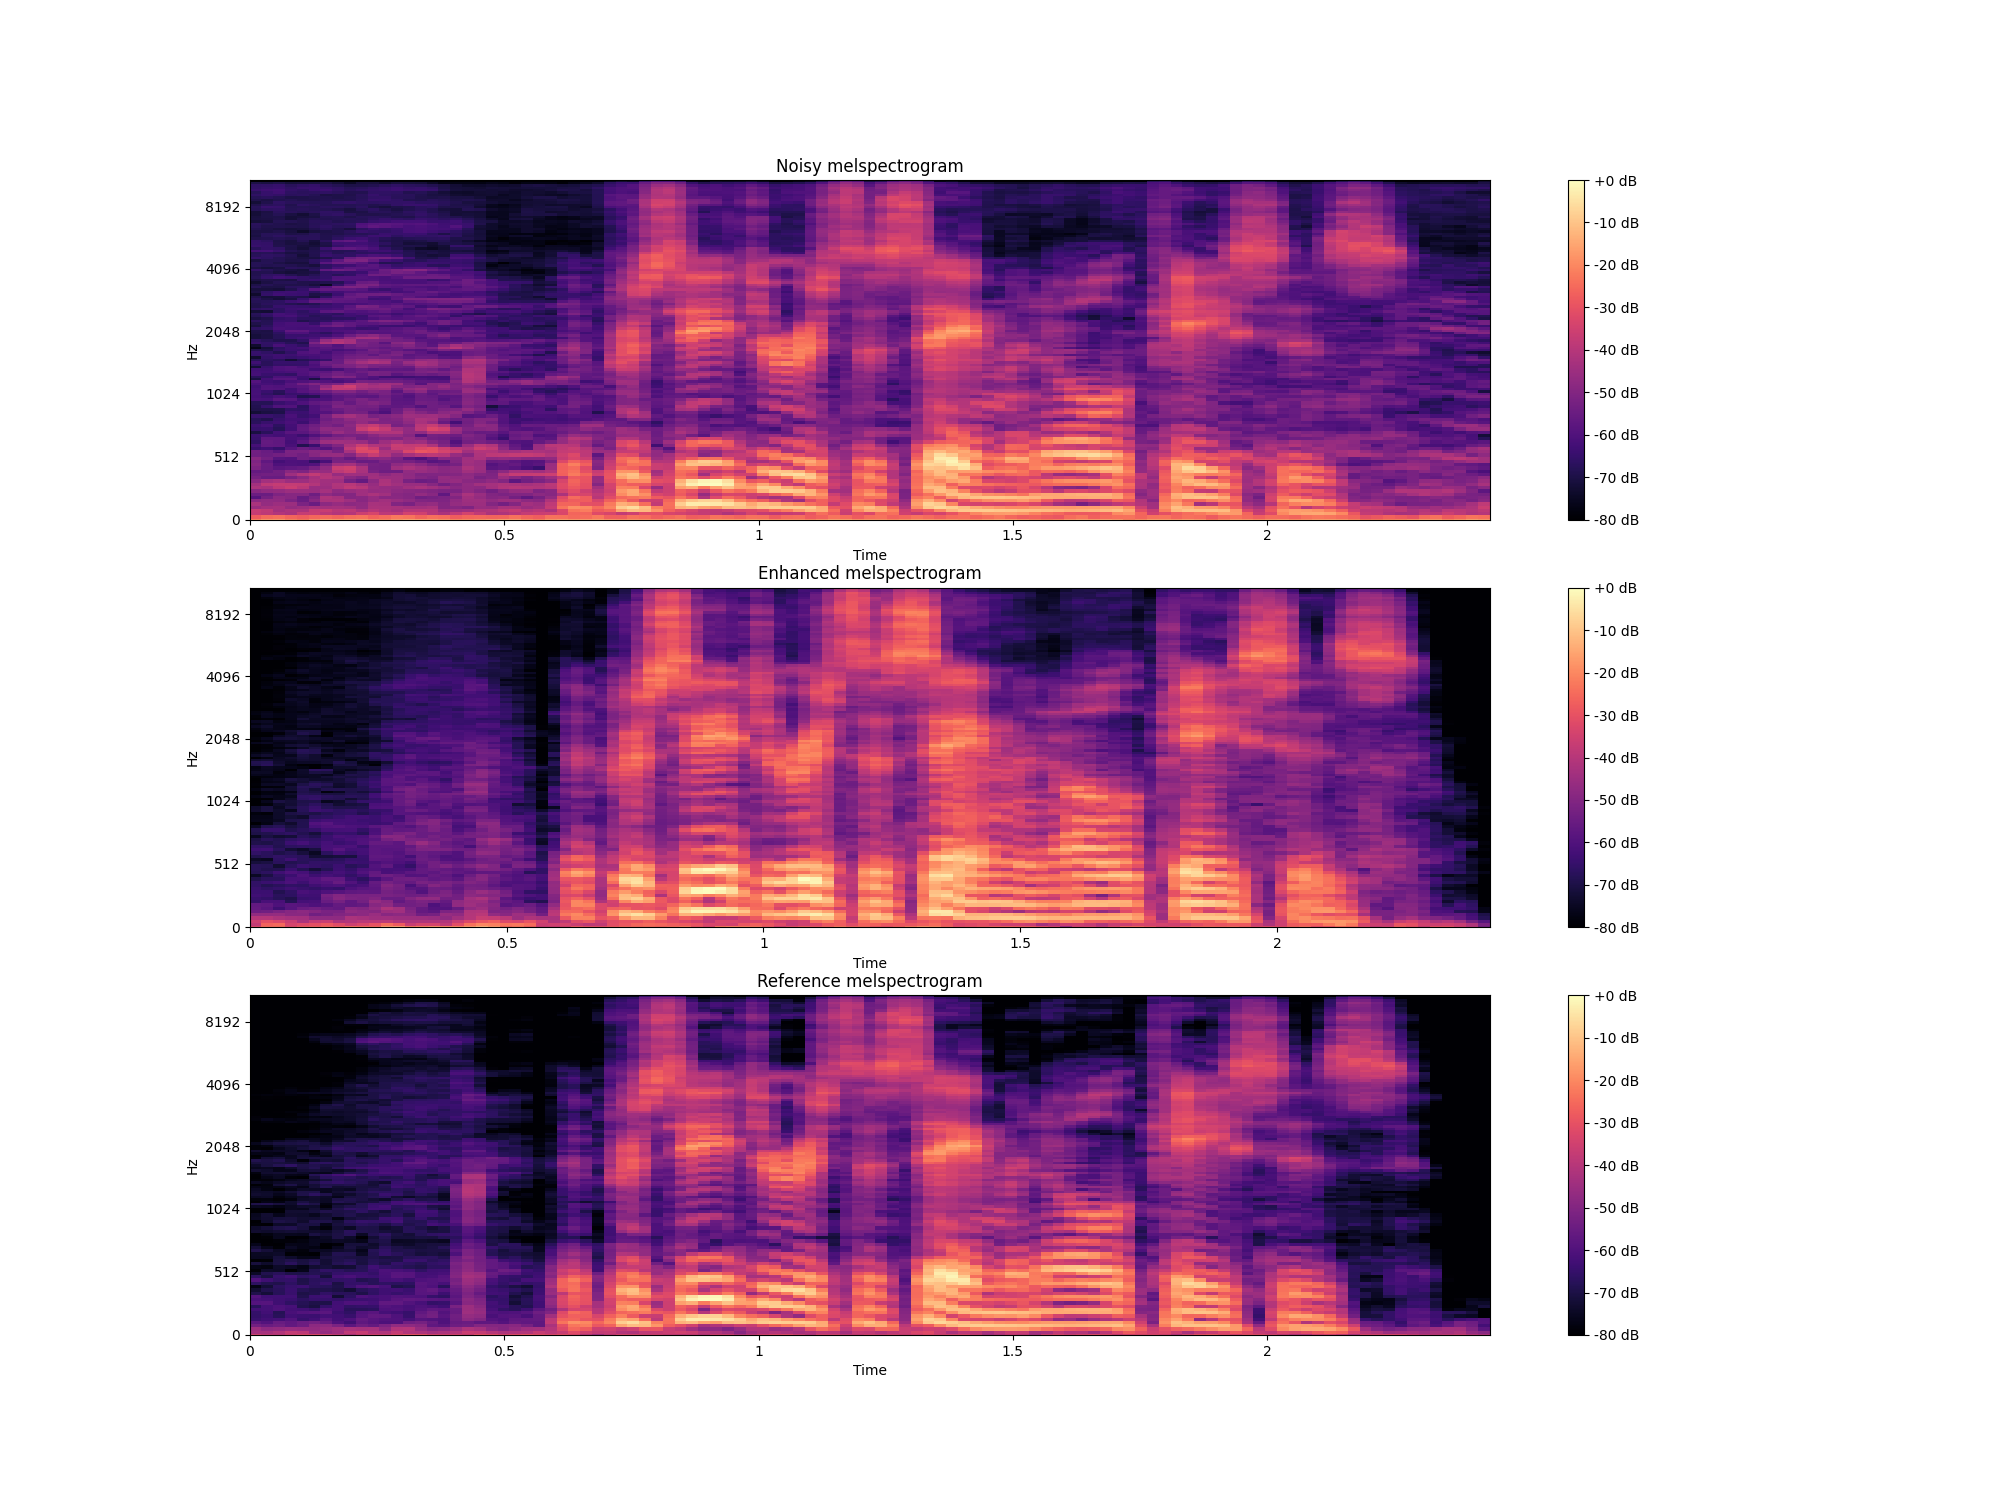
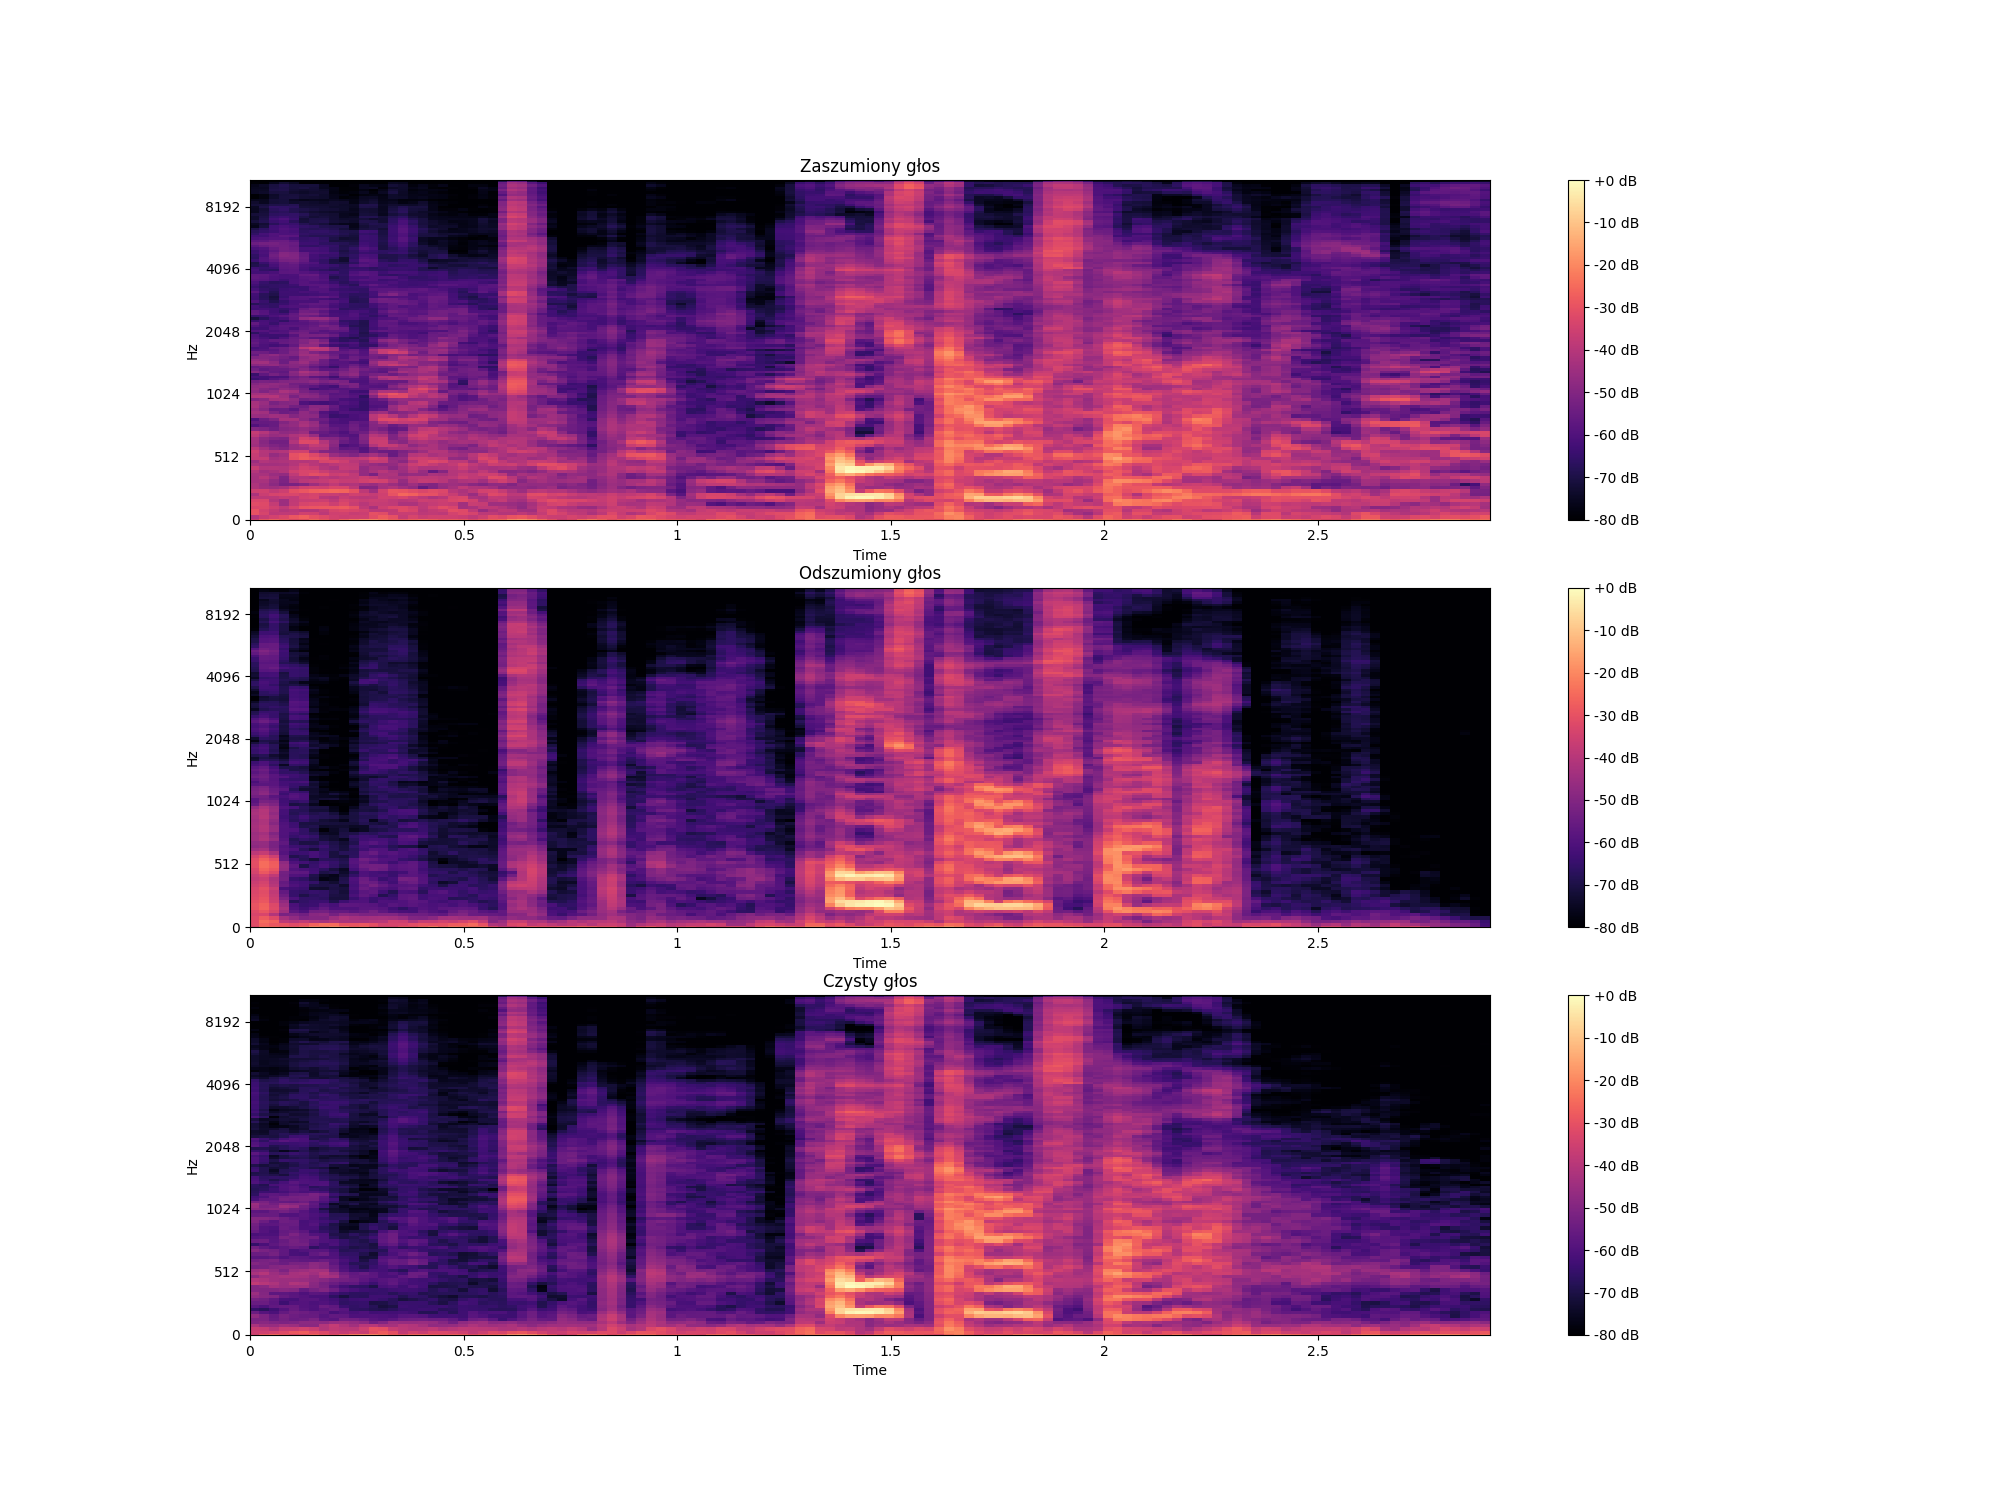
images

diff --git a/scripts/plots.py b/scripts/plots.py
@@ -25,15 +25,36 @@ SIZE=(20, 15)
 plt.figure(figsize=SIZE)
 plt.subplot(3, 1, 1)
 librosa.display.waveplot(y_noisy, sr=sr, max_sr=MAX_SR)
-plt.title("Noisy waveform")
+plt.title("Zaszumiony głos")
 plt.subplot(3, 1, 2)
 librosa.display.waveplot(y_deg, sr=sr, max_sr=MAX_SR)
-plt.title("Enhanced waveform")
+plt.title("Odszumiony głos")
 plt.subplot(3, 1, 3)
 librosa.display.waveplot(y_ref, sr=sr, max_sr=MAX_SR)
-plt.title("Reference waveform")
+plt.title("Czysty głos")
 plt.savefig("{0}_waveform.png".format(args.savepath))
 ##############################
+
+plt.cla()
+
+
+OFFSET=50
+LEN=int(sr/ 20)
+y_noisy_short = y_noisy[OFFSET:OFFSET+LEN]
+y_ref_short = y_ref[OFFSET:OFFSET+LEN]
+y_enh_short = y_deg[OFFSET:OFFSET+LEN]
+plt.figure(figsize=SIZE)
+plt.subplot(2, 1, 1)
+plt.plot(range(0, len(y_ref_short)), y_ref_short, label='Czysty głos')
+plt.plot(range(0, len(y_noisy_short)), y_noisy_short, label='Zaszumiony głos')
+plt.legend(loc="upper right")
+plt.xlabel("Czas")
+plt.subplot(2, 1, 2)
+plt.plot(range(0, len(y_ref_short)), y_ref_short, label='Czysty głos')
+plt.plot(range(0, len(y_enh_short)), y_enh_short, label='Odszumiony głos')
+plt.legend(loc="upper right")
+plt.xlabel("Czas")
+plt.savefig("{0}_waveform2.png".format(args.savepath))
 
 plt.cla()
 
@@ -51,19 +72,19 @@ S = librosa.feature.melspectrogram(y_noisy, sr=sr, n_fft=n_fft, hop_length=hop_l
 S_DB = librosa.power_to_db(S, ref=np.max)
 librosa.display.specshow(S_DB, sr=sr, hop_length=hop_length, x_axis='time', y_axis='mel')
 plt.colorbar(format='%+2.0f dB')
-plt.title("Noisy melspectrogram")
+plt.title("Zaszumiony głos")
 
 plt.subplot(3, 1, 2)
 S = librosa.feature.melspectrogram(y_deg, sr=sr, n_fft=n_fft, hop_length=hop_length, n_mels=n_mels)
 S_DB = librosa.power_to_db(S, ref=np.max)
 librosa.display.specshow(S_DB, sr=sr, hop_length=hop_length, x_axis='time', y_axis='mel')
 plt.colorbar(format='%+2.0f dB')
-plt.title("Enhanced melspectrogram")
+plt.title("Odszumiony głos")
 
 plt.subplot(3, 1, 3)
 S = librosa.feature.melspectrogram(y_ref, sr=sr, n_fft=n_fft, hop_length=hop_length, n_mels=n_mels)
 S_DB = librosa.power_to_db(S, ref=np.max)
 librosa.display.specshow(S_DB, sr=sr, hop_length=hop_length, x_axis='time', y_axis='mel')
 plt.colorbar(format='%+2.0f dB')
-plt.title("Reference melspectrogram")
+plt.title("Czysty głos")
 plt.savefig("{0}_mel.png".format(args.savepath))

diff --git a/scripts/checkpoints_loss.py b/scripts/checkpoints_loss.py
@@ -1,0 +1,33 @@
+import matplotlib.pyplot as plt
+import os
+import re
+
+CHECKPOINTS_DIR="/home/michal/Dokumenty/data/all_raw_checkpoints"
+OFFSET=100
+pattern = r".*epoch-(\d+)-loss-(\d+\.\d+).*"
+
+X = []
+for p in os.scandir(CHECKPOINTS_DIR):
+    x = re.search(pattern, p.path)
+    if x is not None:
+        epoch, loss = x.groups()
+        X.append((int(epoch), float(loss)))
+
+X = sorted(X, key=lambda t: t[0])
+
+X, y = zip(*X)
+
+SIZE=(15, 10)
+plt.figure(figsize=SIZE)
+plt.subplot(2, 1, 1)
+plt.xlabel("Epoch")
+plt.ylabel("Entropia krzyżowa - koszt")
+plt.title("Funkcja kosztu")
+plt.plot(list(X), list(y))
+
+plt.subplot(2, 1, 2)
+plt.plot(list(X)[OFFSET:], list(y)[OFFSET:])
+plt.xlabel("Epoch")
+plt.ylabel("Entropia krzyżowa - koszt")
+plt.title("Funkcja kosztu - przybliżone")
+plt.savefig("checkpoints_loss.png")
